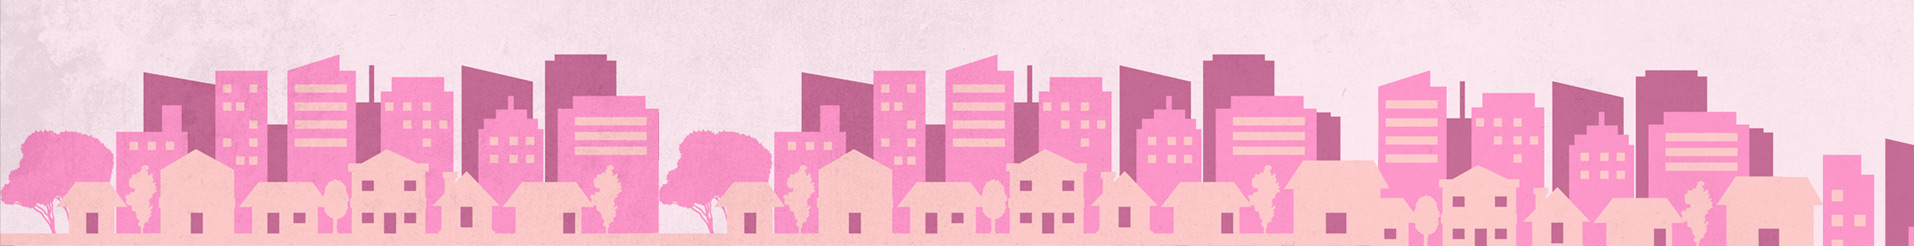
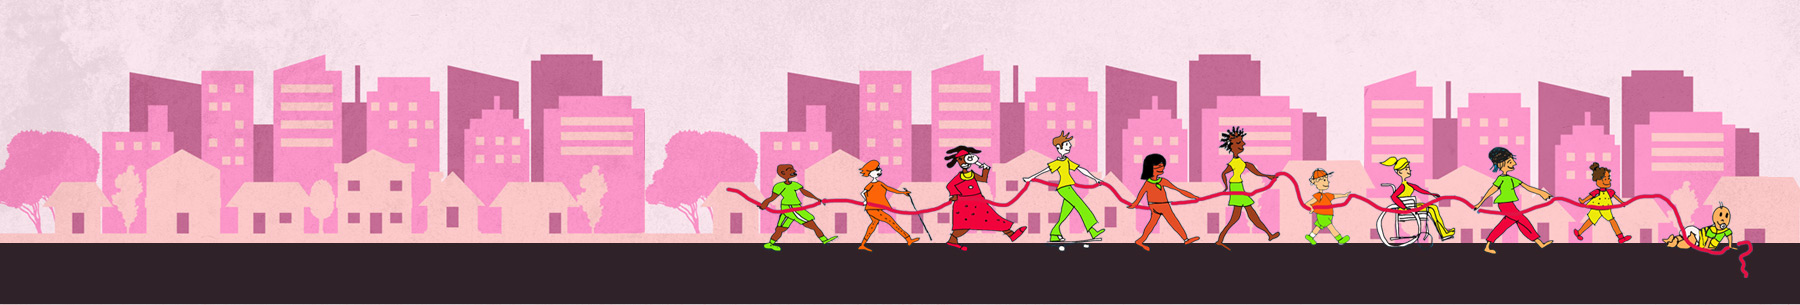
Resolvendo imagens de personagens no header.

diff --git a/style.css b/style.css
@@ -207,15 +207,6 @@ body.single-project .flexslider { min-height: 485px; }
 	position: relative;
 }
 
-.ilustra {
-	width: 1027px;
-	height: 152px;
-	position: absolute;
-	background: url("images/personagens.png") no-repeat scroll 0 0;
-	top: 124px;
-	right: 0;
-}
-
 @media only screen and ( max-width: 960px ) {
 	.ilustra {
 		right: -550px;
@@ -234,15 +225,13 @@ body.single-project .flexslider { min-height: 485px; }
 	}
 }
 
-
-
 .logado {
 	margin-top: 32px;
 }
 
 .full-clearfix {
 	width: 100%;
-	height: 305px;
+	height: 292px;
 	background: url("images/bg-header.jpg") no-repeat scroll center 0;
 	position: absolute;
 	top: 0;
@@ -262,14 +251,6 @@ body.single-project .flexslider { min-height: 485px; }
 }
 
 .top-menu {
-}
-
-.full-menu {
-	width: 100%;
-	background-color: #302228;
-	height: 50px;
-	position: absolute;
-	top: 243px;
 }
 
 .main-navigation {

diff --git a/header.php b/header.php
@@ -41,10 +41,6 @@
 <body <?php body_class(); ?>>
 <div class="full-clearfix<?php if ( is_user_logged_in() ) : echo " logado"; endif; ?>">
 </div><!-- .full-clearfix -->
-<div class="full-menu<?php if ( is_user_logged_in() ) : echo " logado"; endif; ?>">
-</div><!-- .full-menu -->
-
-<div class="ilustra"></div>
 
 	<div class="container">
 		
